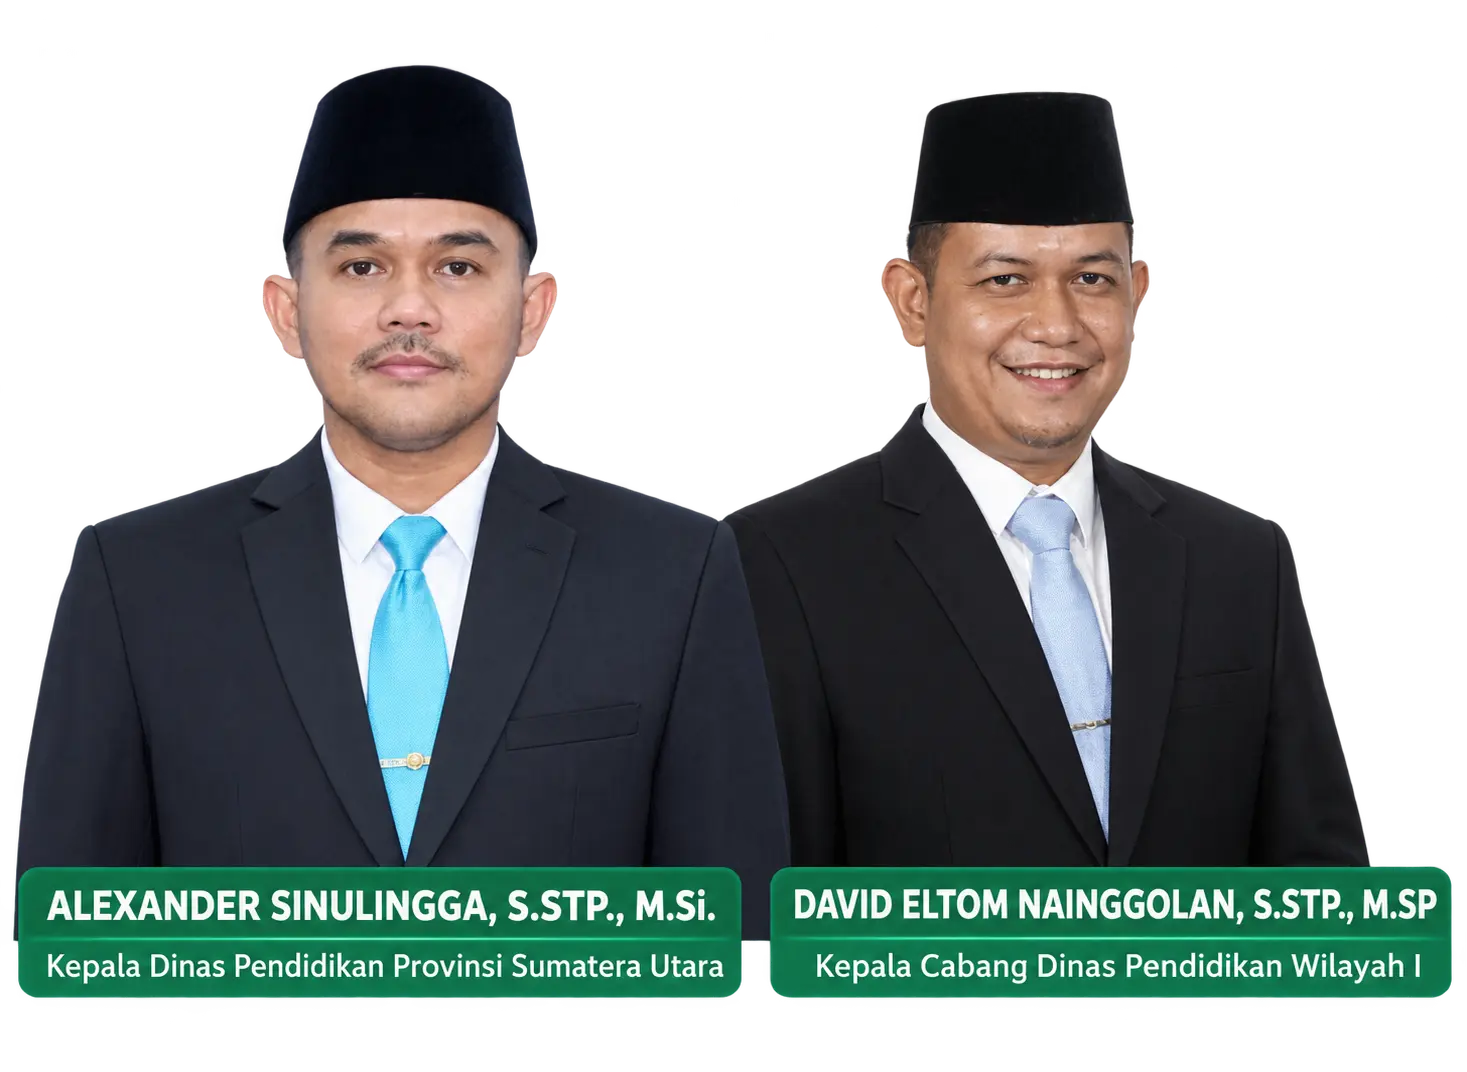
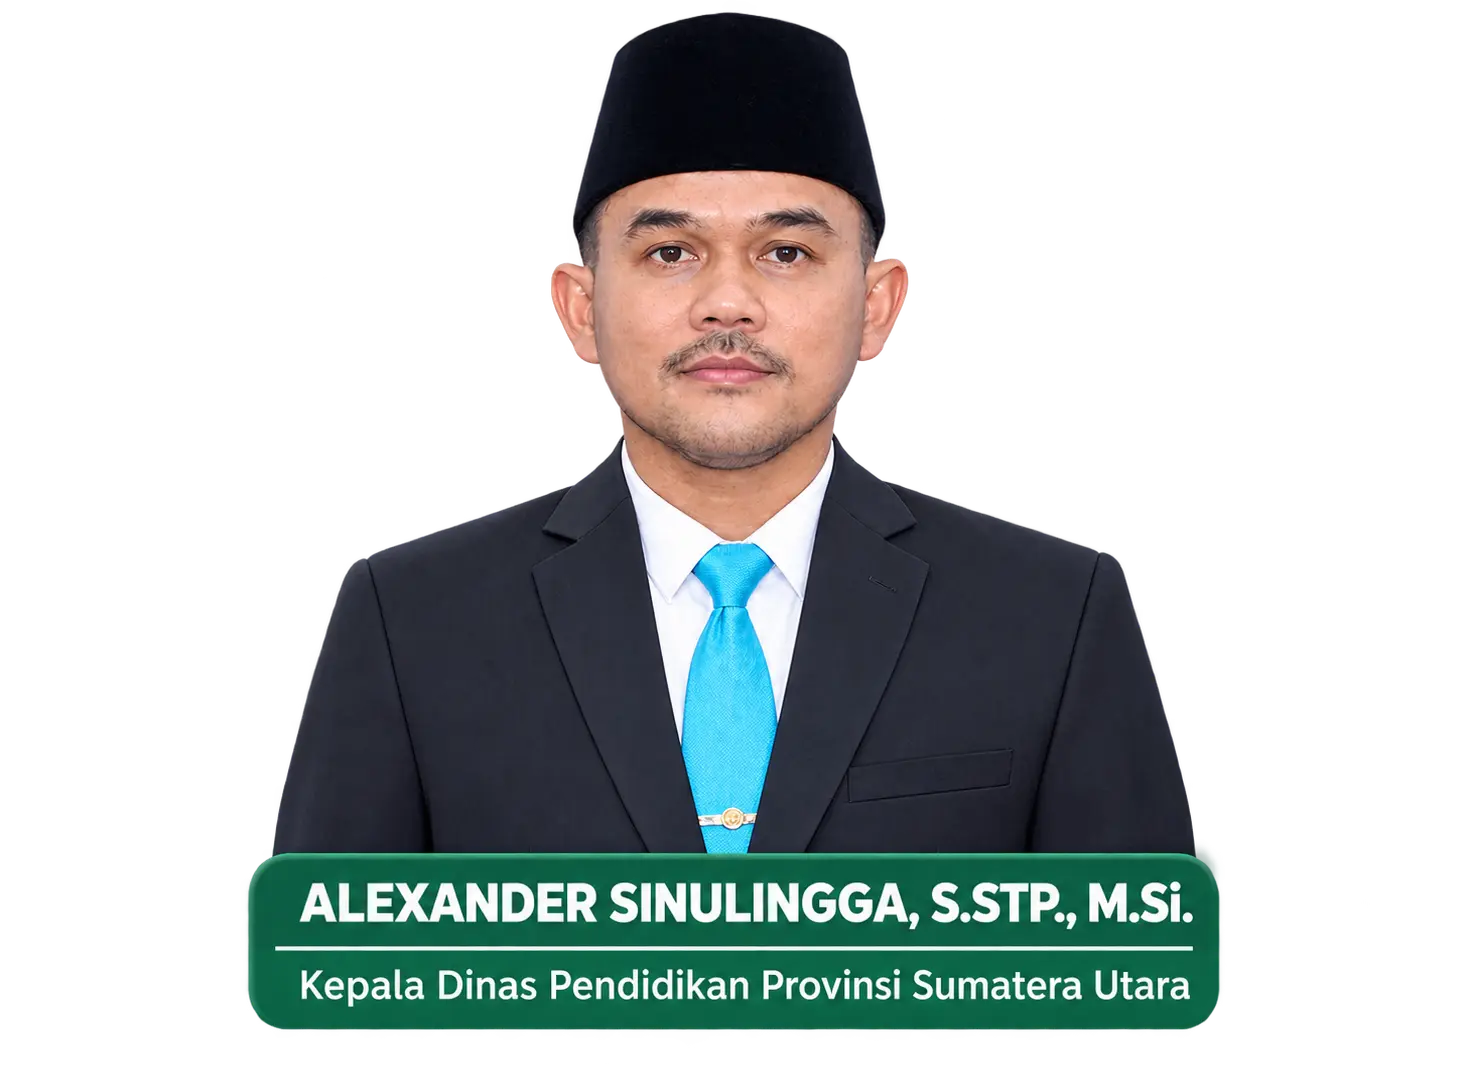
rev18: Perbaiki layout foto pejabat - ukuran hampir sama, lebih rapat dan center

diff --git a/frontend/src/App.css b/frontend/src/App.css
@@ -265,7 +265,7 @@ p {
   gap: 0px;
   min-height: auto;
   padding-top: 40px;
-  padding-bottom: 2px;
+  padding-bottom: 20px;
   text-align: center;
 }
 /* Baris foto pejabat berdampingan */
@@ -273,8 +273,32 @@ p {
   display: flex;
   justify-content: center;
   align-items: flex-end;
-  gap: 32px;
+  gap: 20px; /* Gap rapat */
   width: 100%;
+  margin-top: 20px;
+  position: relative;
+  padding: 20px 0;
+}
+
+/* Background decorative untuk section foto */
+.hero-photos-row::before {
+  content: '';
+  position: absolute;
+  bottom: 0;
+  left: 50%;
+  transform: translateX(-50%);
+  width: 85%;
+  height: 60%;
+  background: radial-gradient(ellipse at center bottom, rgba(36, 107, 71, 0.04) 0%, transparent 70%);
+  border-radius: 50%;
+  z-index: -1;
+}
+
+/* Grup foto pejabat */
+.hero-photos-group {
+  display: flex;
+  align-items: flex-end;
+  gap: 20px; /* Gap konsisten */
 }
 .hero-copy {
   max-width: 580px;
@@ -285,14 +309,15 @@ p {
   padding-bottom: 0;
 }
 .hero-copy--centered h1 {
-  margin: 12px 0 12px;
-  font-size: clamp(1.6rem, 3vw, 2.8rem);
+  margin: 12px 0 16px;
+  font-size: clamp(1.8rem, 3.5vw, 3rem);
   line-height: 1.15;
 }
 .hero-copy--centered p {
-  max-width: 480px;
-  margin: 0 auto;
-  font-size: 1rem;
+  max-width: 520px;
+  margin: 0 auto 8px;
+  font-size: 1.05rem;
+  line-height: 1.65;
 }
 .hero-copy--centered .hero-actions {
   justify-content: center;
@@ -354,6 +379,22 @@ em {
   display: flex;
   align-items: flex-end;
   justify-content: center;
+  transition: transform 0.3s ease;
+}
+
+.hero-official-photo:hover {
+  transform: translateY(-8px);
+}
+
+/* Container untuk foto besar */
+.hero-official-photo--large {
+  position: relative;
+}
+
+/* Container untuk foto kecil - alignment otomatis via flex-end parent */
+.hero-official-photo--small {
+  position: relative;
+  margin-bottom: 0px; /* Hapus margin agar sejajar di bawah */
 }
 /* Foto pejabat */
 .hero-official-img {
@@ -361,8 +402,29 @@ em {
   width: 360px;
   height: 440px;
   object-fit: contain;
-  object-position: center center;
+  object-position: center bottom;
   filter: drop-shadow(0 16px 40px rgba(26, 63, 42, 0.2));
+  transition: filter 0.3s ease;
+}
+
+.hero-official-photo:hover .hero-official-img {
+  filter: drop-shadow(0 20px 50px rgba(26, 63, 42, 0.3));
+}
+
+/* Foto pejabat ukuran besar (Gubernur & Wakil) */
+.hero-official-img--large {
+  width: 480px;
+  height: 500px;
+  object-fit: contain;
+  object-position: center bottom;
+}
+
+/* Foto pejabat ukuran kecil (Kepala Dinas) - sedikit lebih kecil */
+.hero-official-img--small {
+  width: 380px;
+  height: 450px;
+  object-fit: contain;
+  object-position: center bottom;
 }
 .hero-art {
   min-height: 390px;
@@ -734,6 +796,12 @@ em {
   padding: 10px 20px;
   border-radius: 50px;
   letter-spacing: -0.02em;
+}
+
+/* Badge kecil untuk foto Kepala Dinas - hampir sama ukuran */
+.officials-badge--sm {
+  font-size: 0.75rem;
+  padding: 9px 18px;
 }
 /* ===== END OFFICIALS SECTION ===== */
 
@@ -1732,10 +1800,29 @@ em {
   }
   .hero-photos-row {
     margin-top: 6px;
-    gap: 12px;
+    gap: 16px; /* Gap rapat di mobile */
+    flex-wrap: wrap;
+  }
+  
+  .hero-photos-group {
+    gap: 16px; /* Gap konsisten di mobile */
   }
   .hero-official-img {
     width: clamp(160px, 45vw, 205px);
+    height: auto;
+    max-height: 270px;
+  }
+  
+  /* Mobile: foto besar tetap proporsional lebih besar */
+  .hero-official-img--large {
+    width: clamp(170px, 48vw, 220px);
+    height: auto;
+    max-height: 280px;
+  }
+  
+  /* Mobile: foto kecil hampir sama, beda tipis */
+  .hero-official-img--small {
+    width: clamp(155px, 44vw, 200px);
     height: auto;
     max-height: 270px;
   }

diff --git a/frontend/src/pages/Landing.jsx b/frontend/src/pages/Landing.jsx
@@ -49,21 +49,28 @@ function Landing() {
             </p>
           </div>
 
-          {/* 2. Foto Pejabat — berdampingan di tengah */}
+          {/* 2. Foto Pejabat — Gubernur & Wakil lebih besar, Kepala Dinas lebih kecil */}
           <div className="hero-photos-row">
-            <div className="hero-official-photo">
-              <img
-                src="/pejabat/1.webp"
-                alt="Kepala Dinas Pendidikan Provinsi Sumatera Utara"
-                className="hero-official-img"
-              />
+            {/* Grup utama: Gubernur & Wakil */}
+            <div className="hero-photos-group hero-photos-group--main">
+              <div className="hero-official-photo hero-official-photo--large">
+                <img
+                  src="/pejabat/1.webp"
+                  alt="Gubernur dan Wakil Gubernur Sumatera Utara"
+                  className="hero-official-img hero-official-img--large"
+                />
+              </div>
             </div>
-            <div className="hero-official-photo">
-              <img
-                src="/pejabat/2.webp"
-                alt="Kepala Cabang Dinas Pendidikan Wilayah I"
-                className="hero-official-img"
-              />
+            
+            {/* Foto terpisah: Kepala Dinas */}
+            <div className="hero-photos-group hero-photos-group--secondary">
+              <div className="hero-official-photo hero-official-photo--small">
+                <img
+                  src="/pejabat/2.webp"
+                  alt="Kepala Dinas Pendidikan Provinsi Sumatera Utara"
+                  className="hero-official-img hero-official-img--small"
+                />
+              </div>
             </div>
           </div>
 
